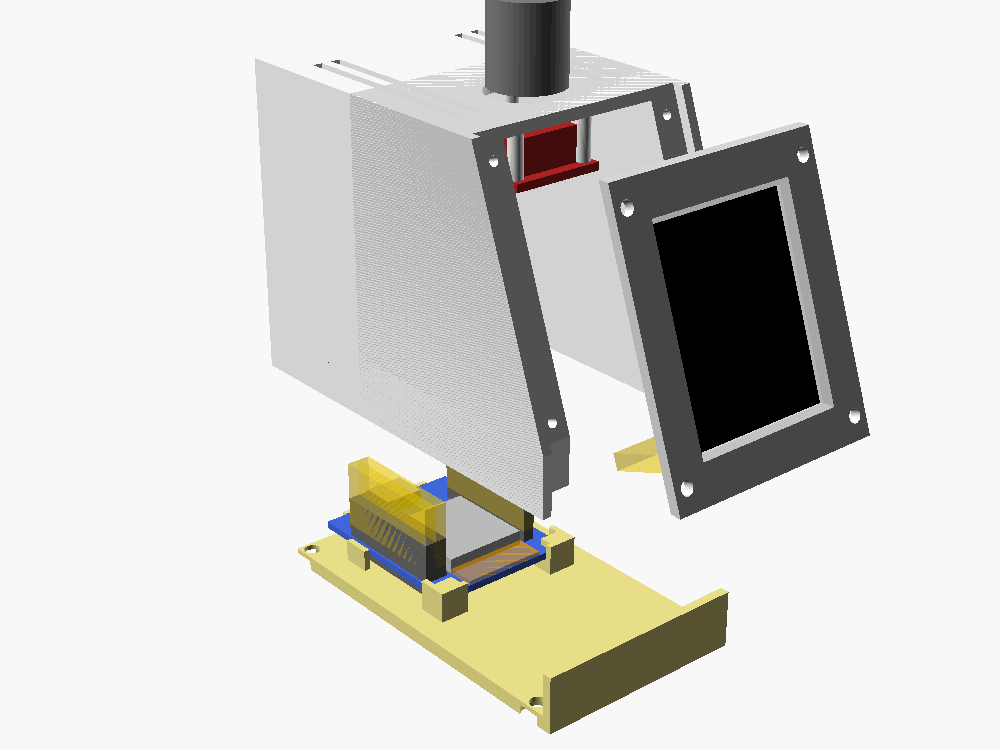
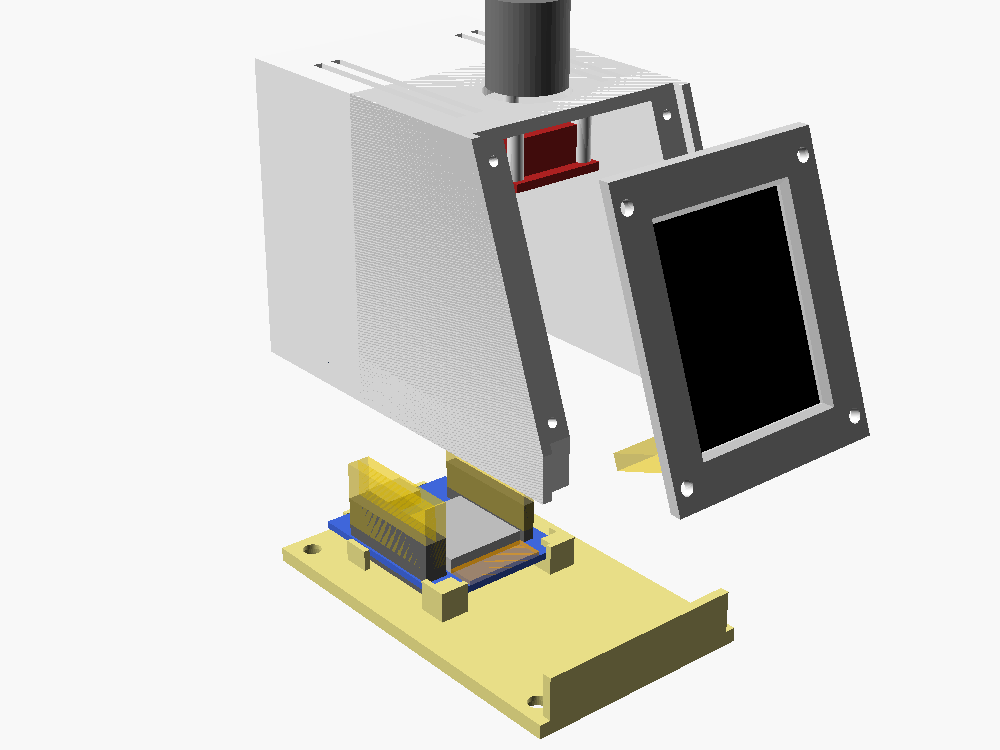
Enclosure: base over the whole footprint, walls stand on it
The base sat inside the walls, so its screw holes were 2.2 from its edge
(0.2 once drilled to 4) and the head counterbores broke out of it. Now
the base covers 50 x 82 and the body's walls stop 3 mm higher; outside
size unchanged. Also base holes 4.0 and boss pilots 13 deep (the screw's
tip reached 0.7 past the old 11).

diff --git a/enclosure/README.md b/enclosure/README.md
@@ -78,9 +78,12 @@ plate, not the whole case, and the plate prints face down.
 - **Vents**: top slots left and right of the knob, over the ESP32; low slots
   on the back beside the USB; slots in the floor under the ESP32. No
   sensors, so no sensor bay: only the ESP32's warmth to let out.
-- **Base**: floor plate with the 12 mm strip under the screen standing on
-  its front edge (on the body it would be a 46 mm bridge when printed),
-  held by 4 × M3 screws from below into the body's corner bosses. The
+- **Base**: floor plate over the whole 50 x 82 footprint, the body's
+  walls standing on it (v2; in v1 it sat inside the walls and its screw
+  holes ended up 0.2 from its edge), with the 12 mm strip under the
+  screen standing on its front edge between the side walls (on the body
+  it would be a 46 mm bridge when printed), held by 4 × M3 screws from
+  below into the body's corner bosses. The
   ESP32 is on the base, the TFT on the plate and the knob in the body, so
   the cables need enough slack to lay the three beside each other.
 
@@ -104,7 +107,8 @@ Material: PETG preferred (PLA softens ~55 °C). Fit clearance 0.3 mm (`clr`).
 Screws from the user's two self-tapping kits, silver stainless and small
 black pan head. What's in them: their Homebox entries (`parts.py show screws`).
 
-- 4 × M3 × 10, round head, silver kit (base → body; pilot 2.5)
+- 4 × M3 × 10, round head, silver kit (base → body; 4.0 holes in the
+  base, pilot 2.5, 13 deep: the screw's tip reaches ~12.7)
 - 4 × 2.3 × 8, black kit (front plate → rails; 2.7 hole in the plate,
   pilot 1.9, 6.5 deep)
 - 4 × 2 × 4, black kit (TFT → posts, pilot 1.6; a 6 would poke out the
@@ -177,9 +181,12 @@ knob mount needs a v2.
 
 v2 to do: rework the knob mount (deeper barbs or another hold; measure
 the KY-040's thickness, the shaft's position across the board and the
-header's), base holes 4.0, front plate screws 2 x 6 instead of 2.3 x 8
+header's), front plate screws 2 x 6 instead of 2.3 x 8
 (4 into the rail like the TFT's posts: pilot 1.6, ~6 deep so the tip
 never bottoms out, 2.4 hole in the plate).
+Done in the model: base over the whole footprint (the user's photo of
+v1's thin edges round the base holes, 2026-10-10; renders of before /
+after in `pages/assembly/base-v2/`), base holes 4.0, boss pilots 13 deep.
 
 ## Pictures and pages
 
